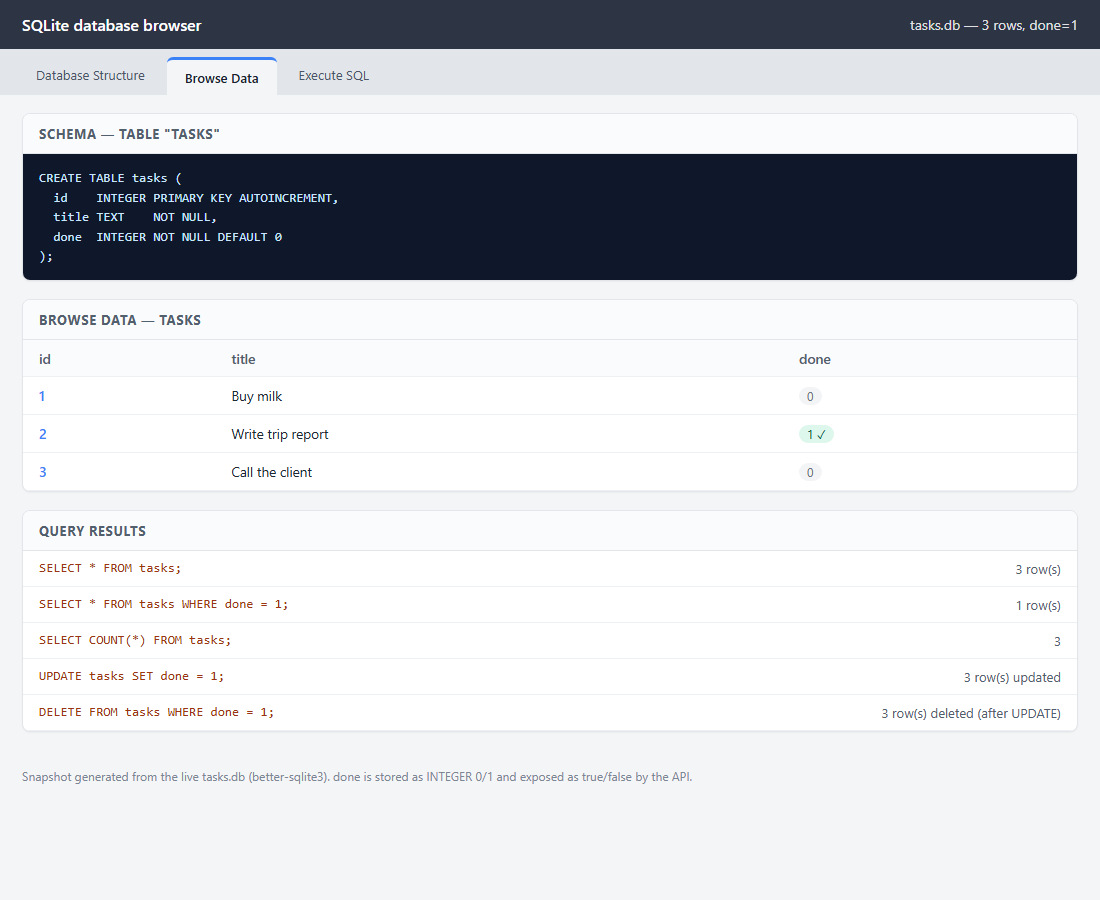
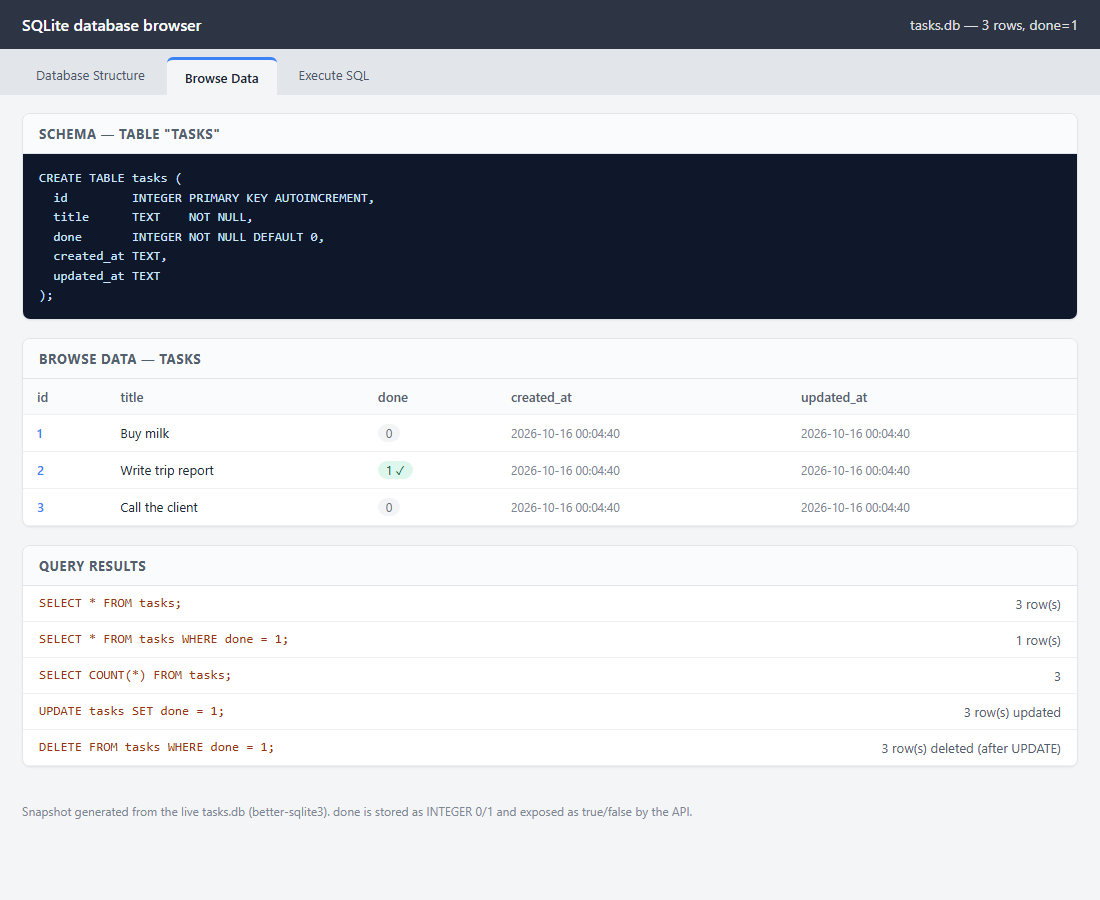
Stage 5: database documentation

diff --git a/README.md b/README.md
@@ -1,62 +1,90 @@
-# Task API
+# Task API (SQLite)
 
-REST API sederhana untuk mengelola daftar to-do. Dibuat dengan **Node.js + Express**, menyimpan data **di memori** (tanpa database/file), dan menyediakan **Swagger UI** di `/docs`.
+REST API sederhana untuk mengelola daftar to-do. Dibuat dengan **Node.js + Express**, menyimpan data di **SQLite** (`tasks.db`), dan menyediakan **Swagger UI** di `/docs`.
 
-Proyek ini adalah tugas pembelajaran W2 · A1 — fokus pada pemahaman siklus request → response dari sisi server.
+Proyek ini adalah lanjutan tugas W2 · A1 → **W3 · A1**: mengganti penyimpanan in-memory dengan database SQLite. **Kontrak API tidak berubah** — hanya lapisan penyimpanannya.
+
+```
+Sebelum : Client → API → Array di memori
+Sesudah : Client → API (Express) → db.js (lapisan data) → SQLite (tasks.db)
+```
+
+## Yang Berubah & Yang Tetap
+
+| | Sebelum (W2) | Sekarang (W3) |
+| --- | --- | --- |
+| Penyimpanan | Array di memori | SQLite `tasks.db` |
+| Persistensi | Hilang saat restart | **Tetap** setelah restart |
+| Seed | Selalu di-reset di memori | Hanya jika tabel kosong |
+| URL, body, status code | — | **Tidak berubah** |
+| Format respons | `id`, `title`, `done` | Sama (+ `created_at`, `updated_at` aditif) |
+| Swagger UI `/docs` | Ada | Ada |
+
+## Alasan Memilih SQLite
+
+- Berupa **satu file** (`tasks.db`), tanpa server database terpisah — cocok untuk pembelajaran dan mudah dipindah.
+- **Dibuat otomatis** saat aplikasi pertama dijalankan; tidak ada langkah instalasi manual.
+- Mendukung SQL standar (`SELECT`, `INSERT`, `UPDATE`, `DELETE`, `WHERE`, `COUNT`), sehingga saat pindah ke PostgreSQL/MySQL nanti konsepnya sama.
+- Cepat dan tidak perlu konfigurasi (zero-config) untuk proyek kecil.
 
 ## Prasyarat
 
 - **Node.js 18+** (diuji pada Node.js v22)
 - npm
-- Git (opsional, untuk clone)
 
 ## Instalasi & Menjalankan
 
 ```bash
-npm install
-npm start
+npm install && npm start
 ```
 
-Server berjalan di `http://localhost:3000`. Buka dokumentasi interaktif di `http://localhost:3000/docs`.
+Server berjalan di `http://localhost:3000`. Dokumentasi interaktif di `http://localhost:3000/docs`.
 
-> Butuh satu perintah saja setelah clone? `npm install && npm start`.
+Saat pertama kali dijalankan, aplikasi otomatis membuat `tasks.db`, tabel `tasks`, dan mengisi 3 task contoh **hanya jika tabel kosong**. Restart berulang tidak akan menggandakan data.
+
+## Lokasi Database
+
+File database: **`tasks.db`** di root proyek (path relatif terhadap folder proyek, dibuat dari `__dirname`). File ini **tidak** di-commit ke Git (lihat `.gitignore`) karena dibuat otomatis; setiap orang yang meng-clone cukup menjalankan `npm start`.
 
 ## Tabel Endpoint
 
-| # | Method | Path | Fungsi | Sukses | Error |
-| - | ------ | ---- | ------ | ------ | ----- |
-| 1 | GET | `/` | Info API | 200 | — |
-| 2 | GET | `/health` | Cek hidup | 200 | — |
-| 3 | GET | `/tasks` | Daftar semua task | 200 | — |
-| 4 | GET | `/tasks/:id` | Ambil satu task | 200 | 404 |
-| 5 | POST | `/tasks` | Buat task baru | 201 | 400 |
-| 6 | PUT | `/tasks/:id` | Ubah `title` dan/atau `done` | 200 | 400, 404 |
-| 7 | DELETE | `/tasks/:id` | Hapus task (tanpa body) | 204 | 404 |
-| — | GET | `/stats` | Statistik (extras) | 200 | — |
-| — | POST | `/reset` | Kembalikan 3 seed task (extras) | 200 | — |
+| # | Method | Path | Implementasi SQL | Sukses | Error |
+| - | ------ | ---- | ---------------- | ------ | ----- |
+| 1 | GET | `/` | — | 200 | — |
+| 2 | GET | `/health` | — | 200 | — |
+| 3 | GET | `/tasks` | `SELECT * FROM tasks` | 200 | — |
+| 4 | GET | `/tasks/:id` | `SELECT * FROM tasks WHERE id = ?` | 200 | 404 |
+| 5 | POST | `/tasks` | `INSERT INTO tasks (title, done) VALUES (?, 0)` | 201 | 400 |
+| 6 | PUT | `/tasks/:id` | `UPDATE tasks SET ... WHERE id = ?` | 200 | 400, 404 |
+| 7 | DELETE | `/tasks/:id` | `DELETE FROM tasks WHERE id = ?` | 204 | 404 |
+| — | GET | `/stats` | `SELECT COUNT(*) ...` (extras) | 200 | — |
+| — | POST | `/reset` | hapus + seed ulang (extras) | 200 | — |
 | — | GET | `/docs` | Swagger UI | 200 | — |
 
-Setiap error mengembalikan JSON berbentuk `{ "error": "<pesan>" }`.
+Setiap error mengembalikan JSON `{ "error": "<pesan>" }`. Pesan 404 memakai format lama `Task <id> not found` agar kontrak tidak berubah.
 
-## Model Data
+## Skema Database
 
-| Field | Tipe | Aturan |
-| ----- | ---- | ------ |
-| `id` | number | Dibuat server, unik, berurutan. Field `id` dari client diabaikan. |
-| `title` | string | Wajib, tidak boleh kosong (setelah di-trim). |
-| `done` | boolean | Default `false` saat dibuat. |
+```sql
+CREATE TABLE tasks (
+  id         INTEGER PRIMARY KEY AUTOINCREMENT,
+  title      TEXT    NOT NULL,
+  done       INTEGER NOT NULL DEFAULT 0,   -- SQLite tidak punya boolean: 0/1
+  created_at TEXT,
+  updated_at TEXT
+);
+```
 
-Data awal (seed): 3 task contoh didefinisikan di bagian atas `index.js`.
+Catatan: `done` disimpan sebagai integer `0`/`1`, lalu dikonversi kembali menjadi `true`/`false` pada respons JSON oleh lapisan API. Kolom `created_at`/`updated_at` ditambahkan lewat migrasi `ALTER TABLE` (dijelaskan di bagian Extras).
 
 ## Aturan Validasi
 
-- **POST** — `title` wajib ada, bertipe string, dan tidak kosong. Jika tidak → **400**.
+- **POST** — `title` wajib ada, bertipe string, dan tidak kosong (setelah di-trim). Jika tidak → **400**.
 - **PUT** — body harus berisi minimal satu dari `title` atau `done`; `title` (jika ada) harus string tidak kosong, `done` (jika ada) harus boolean. Selain itu → **400**.
-- `PUT` melakukan **update parsial**: kirim hanya field yang ingin diubah.
+- `PUT` melakukan **update parsial**.
+- Semua query memakai **parameterized query** (`?`), bukan menyambung string, agar terhindar dari SQL injection.
 
 ## Contoh `curl -i`
-
-Membuat task baru:
 
 ```bash
 curl -i -X POST http://localhost:3000/tasks \
@@ -70,12 +98,13 @@ Output:
 HTTP/1.1 201 Created
 X-Powered-By: Express
 Content-Type: application/json; charset=utf-8
-Content-Length: 40
-ETag: W/"28-PpSBYV7i68cXyGc7AhjVpkZkY5Q"
-Date: Thu, 15 Oct 2026 22:16:16 GMT
+Content-Length: 110
+ETag: W/"6e-cnbZbwOaAL+vRDjTDSHRaAJ+L/8"
+Date: Fri, 16 Oct 2026 00:03:46 GMT
 Connection: keep-alive
+Keep-Alive: timeout=5
 
-{"id":4,"title":"Buy milk","done":false}
+{"id":4,"title":"Buy milk","done":false,"created_at":"2026-10-16 00:03:46","updated_at":"2026-10-16 00:03:46"}
 ```
 
 Siklus CRUD lengkap via `curl`:
@@ -96,30 +125,67 @@ Semua endpoint terdokumentasi di **`http://localhost:3000/docs`** dan tombol **"
 
 ![Swagger UI](docs/swagger.png)
 
-## Catatan: Data In-Memory
+## Database Viewer
 
-Data disimpan hanya di variabel program, **bukan** database atau file. Semua perubahan (termasuk task baru) **hilang saat server di-restart** — ini disengaja untuk pembelajaran.
+![SQLite viewer](docs/sqlite-viewer.png)
 
-### Mortality experiment
+Snapshot di atas diambil dari `tasks.db` (struktur tabel + Browse Data + hasil query).
 
-Buat beberapa task, lalu hentikan server (`Ctrl+C`) dan jalankan ulang, kemudian `GET /tasks`. Yang Anda lihat adalah daftar seed semula: task yang baru dibuat tidak muncul. Ini terjadi karena `tasks` hidup di memori proses Node; saat proses berhenti, memori dibebaskan dan variabel diinisialisasi ulang dari `SEED`.
+### Contoh query SQL dan hasilnya
+
+```sql
+SELECT * FROM tasks;
+```
+
+```
+id  title               done
+--  ------------------  ----
+1   Buy milk            0
+2   Write trip report   1
+3   Call the client     0
+```
+
+Mengubah database secara manual langsung terlihat lewat API **tanpa restart**:
+
+```sql
+UPDATE tasks SET done = 1;   -- 3 rows changed
+```
+
+```bash
+curl -s http://localhost:3000/tasks
+# -> semua task berubah menjadi "done": true
+```
+
+Observasi lengkap ada di [`docs/sqlite-exploration.md`](docs/sqlite-exploration.md).
+
+## Catatan: Data In-Memory vs Persisten
+
+Data sekarang disimpan di SQLite, sehingga **tetap ada setelah server di-restart**. (Di assignment sebelumnya, data hilang setiap restart karena hidup di array memori.) Bukti: buat task, hentikan server (`Ctrl+C`), jalankan `npm start` lagi, lalu `GET /tasks` — task baru masih ada.
+
+Karena database dibuat otomatis, `tasks.db` dimasukkan ke `.gitignore` agar repo bersih dan setiap orang mendapat database baru saat pertama kali menjalankan.
 
 ## Extras
 
-- **Filter** — `GET /tasks?done=true` hanya mengembalikan task selesai.
-- **Search** — `GET /tasks?search=milk` mencari pada `title` (case-insensitive).
-- **Stats** — `GET /stats` → `{ "total": 3, "done": 1, "open": 2 }`.
-- **Reset** — `POST /reset` mengembalikan 3 task contoh.
+- **Filter** — `GET /tasks?done=true` (klausa `WHERE`).
+- **Search** — `GET /tasks?search=milk` (operator `LIKE`, case-insensitive untuk ASCII).
+- **Sort** — `GET /tasks?sort=title` (klausa `ORDER BY ... COLLATE NOCASE`).
+- **Stats** — `GET /stats` memakai `COUNT()` di SQL, bukan menghitung di JavaScript.
+- **Reset** — `POST /reset` menghapus semua baris lalu memasukkan ulang 3 seed.
+- **Timestamp** — kolom `created_at`/`updated_at` (migrasi `ALTER TABLE`, `updated_at` diperbarui tiap `PUT`).
 
 ## Struktur Proyek
 
 ```
 .
-├── index.js        # seluruh API (±100 baris)
+├── index.js        # lapisan API (route Express) — tidak menyimpan data di memori
+├── db.js           # lapisan data: koneksi, skema, migrasi, dan semua query SQL
 ├── openapi.json    # spesifikasi OpenAPI 3 untuk Swagger UI
 ├── package.json
+├── tasks.db        # database SQLite (dibuat otomatis; di-ignore Git)
 └── docs/
-    └── swagger.png # screenshot Swagger UI
+    ├── swagger.png          # screenshot Swagger UI
+    ├── sqlite-viewer.png    # screenshot database viewer
+    └── sqlite-exploration.md
 ```
 
 ## Lisensi
